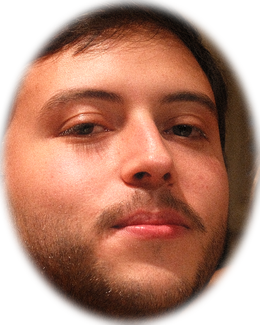
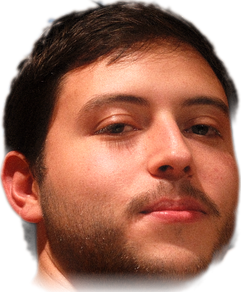
atualiza radar 2026-09-30 18:38

diff --git a/index.html b/index.html
@@ -81,16 +81,14 @@
   <g transform="translate(210 150) scale(1.32) translate(-210 -150)">
     <path d="M145 150 L152 92 Q170 80 188 92 L195 150 Z" fill="url(#iRoxo)" stroke="#3f2a7a" stroke-width="1.5"/>
     <g class="braco-e"><path d="M158 112 L130 88" stroke="#7a57cf" stroke-width="10" stroke-linecap="round"/><circle cx="128" cy="86" r="6" fill="#f2c9a5"/></g>
-    <image href="magos/rosto-1.png" x="145" y="32" width="50" height="62" preserveAspectRatio="xMidYMid slice" clip-path="url(#iCara1)"/>
-    <ellipse cx="170" cy="62" rx="23" ry="28" fill="none" stroke="rgba(0,0,0,.12)" stroke-width="1.5"/>
+    <image href="magos/rosto-1.png" x="139" y="26" width="62" height="75" preserveAspectRatio="xMidYMid meet"/>
     <path d="M170 -18 L196 42 L144 42 Z" fill="url(#iRoxo)" stroke="#3f2a7a" stroke-width="1.5" stroke-linejoin="round"/>
     <ellipse cx="170" cy="42" rx="32" ry="7" fill="#4a2f8f"/>
     <path class="brilho" d="M176 10 l2 5 5 2 -5 2 -2 5 -2 -5 -5 -2 5 -2z" fill="#ffe27a"/><circle cx="163" cy="26" r="2" fill="#ffe27a"/>
 
     <path d="M225 150 L232 92 Q250 80 268 92 L275 150 Z" fill="url(#iRosa)" stroke="#9c2d66" stroke-width="1.5"/>
     <g class="braco-d"><path d="M262 112 L292 88" stroke="#f06aad" stroke-width="10" stroke-linecap="round"/><circle cx="294" cy="86" r="6" fill="#f2c9a5"/><path d="M294 86 L312 64" stroke="#8a5a2b" stroke-width="3" stroke-linecap="round"/><path class="brilho" d="M313 54 l3 7 7 3 -7 3 -3 7 -3 -7 -7 -3 7 -3z" fill="#fff38a"/></g>
-    <image href="magos/rosto-2.png" x="225" y="32" width="50" height="62" preserveAspectRatio="xMidYMid slice" clip-path="url(#iCara2)"/>
-    <ellipse cx="250" cy="62" rx="23" ry="28" fill="none" stroke="rgba(0,0,0,.12)" stroke-width="1.5"/>
+    <image href="magos/rosto-2.png" x="219" y="31" width="62" height="67" preserveAspectRatio="xMidYMid meet"/>
     <path d="M254 -18 L276 42 L224 42 Z" fill="url(#iRosa)" stroke="#9c2d66" stroke-width="1.5" stroke-linejoin="round"/>
     <ellipse cx="250" cy="42" rx="32" ry="7" fill="#b8337a"/>
     <path class="brilho" d="M252 8 l2 5 5 2 -5 2 -2 5 -2 -5 -5 -2 5 -2z" fill="#ffe27a"/><circle cx="260" cy="26" r="2" fill="#ffe27a"/>
@@ -110,15 +108,12 @@
 </svg>
 <div class="titulo"><b>Radar dos Magos</b><span>Preparando a vassoura a jato…</span></div>
 </div>
-<button class="pular" type="button">Pular</button>
 <script>
 (function () {
   const el = document.getElementById("intro");
-  let viu = false; try { viu = sessionStorage.getItem("intro-viu") === "1"; } catch (e) {}
-  if (viu) { el.remove(); return; }
   const reduz = window.matchMedia("(prefers-reduced-motion: reduce)").matches;
   let acabou = false;
-  const fim = () => { if (acabou) return; acabou = true; try { sessionStorage.setItem("intro-viu", "1"); } catch (e) {} el.classList.add("fim"); setTimeout(() => el.remove(), 700); };
+  const fim = () => { if (acabou) return; acabou = true; el.classList.add("fim"); setTimeout(() => el.remove(), 700); };
   el.addEventListener("click", fim);
   const imgs = ["magos/rosto-1.png", "magos/rosto-2.png"].map(src => new Promise(ok => { const i = new Image(); i.onload = i.onerror = ok; i.src = src; }));
   const comeca = () => { if (el.classList.contains("vai")) return; el.classList.add("vai"); setTimeout(fim, reduz ? 1200 : 4600); };
